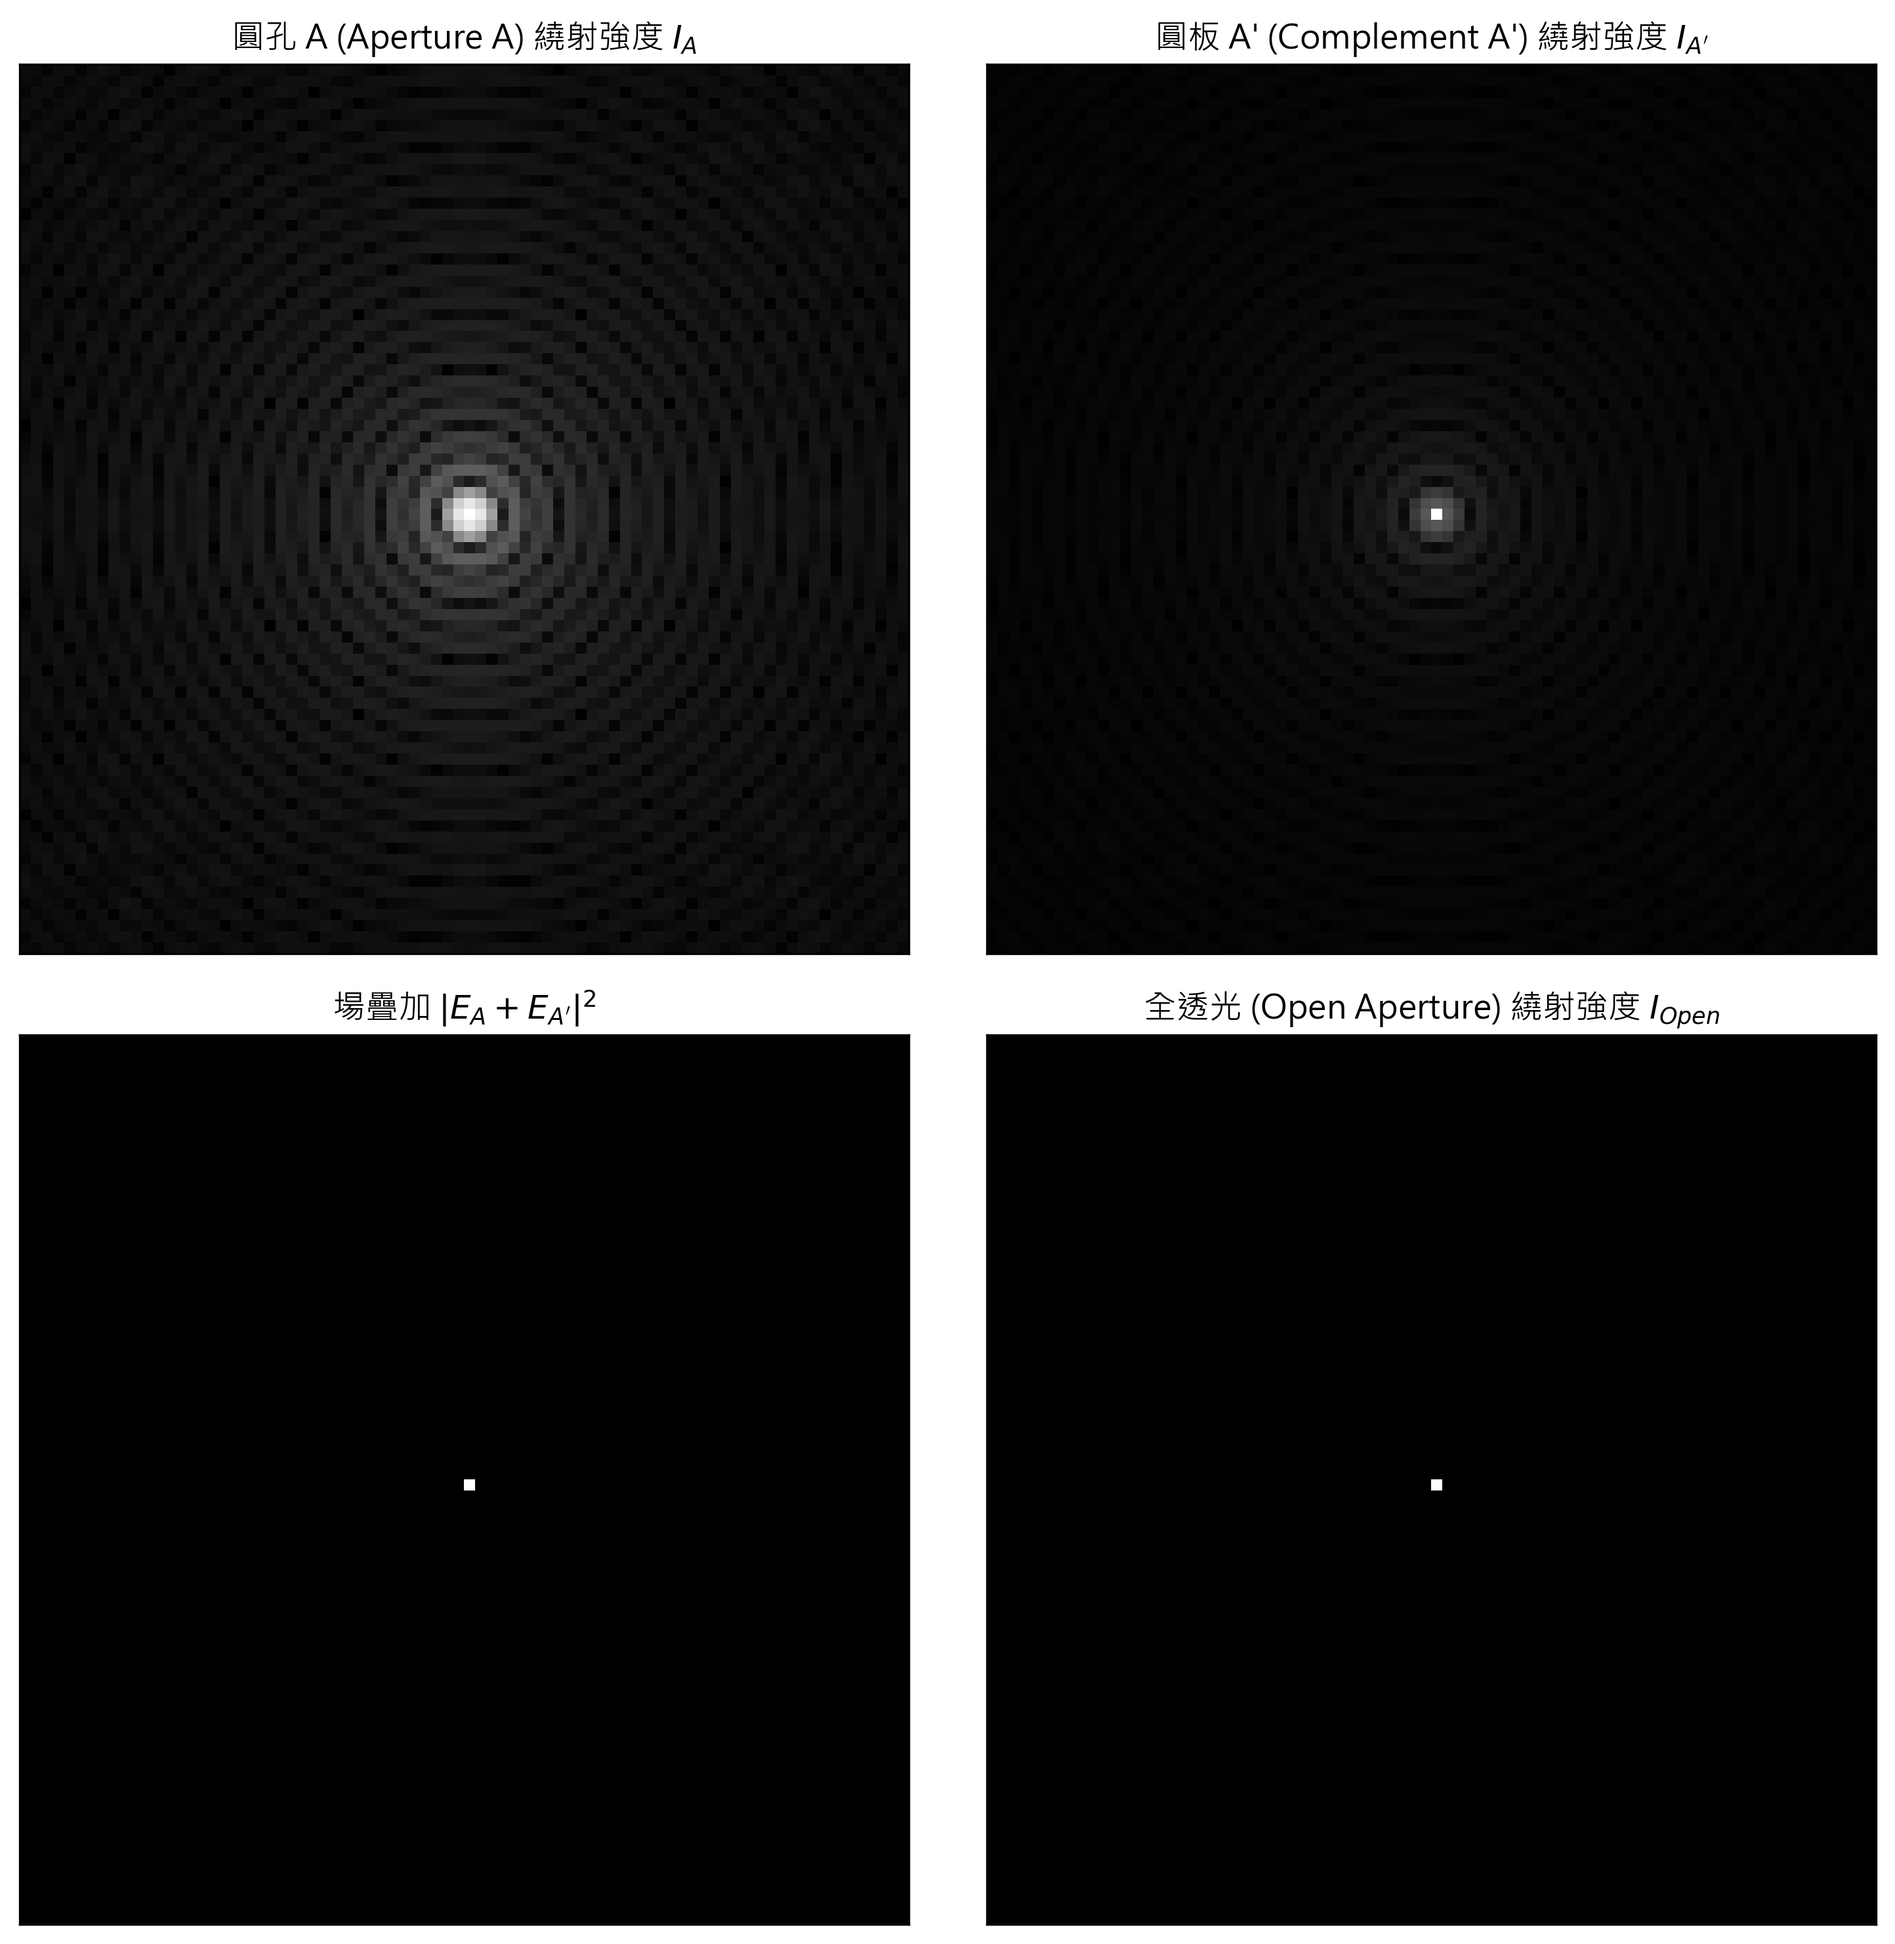
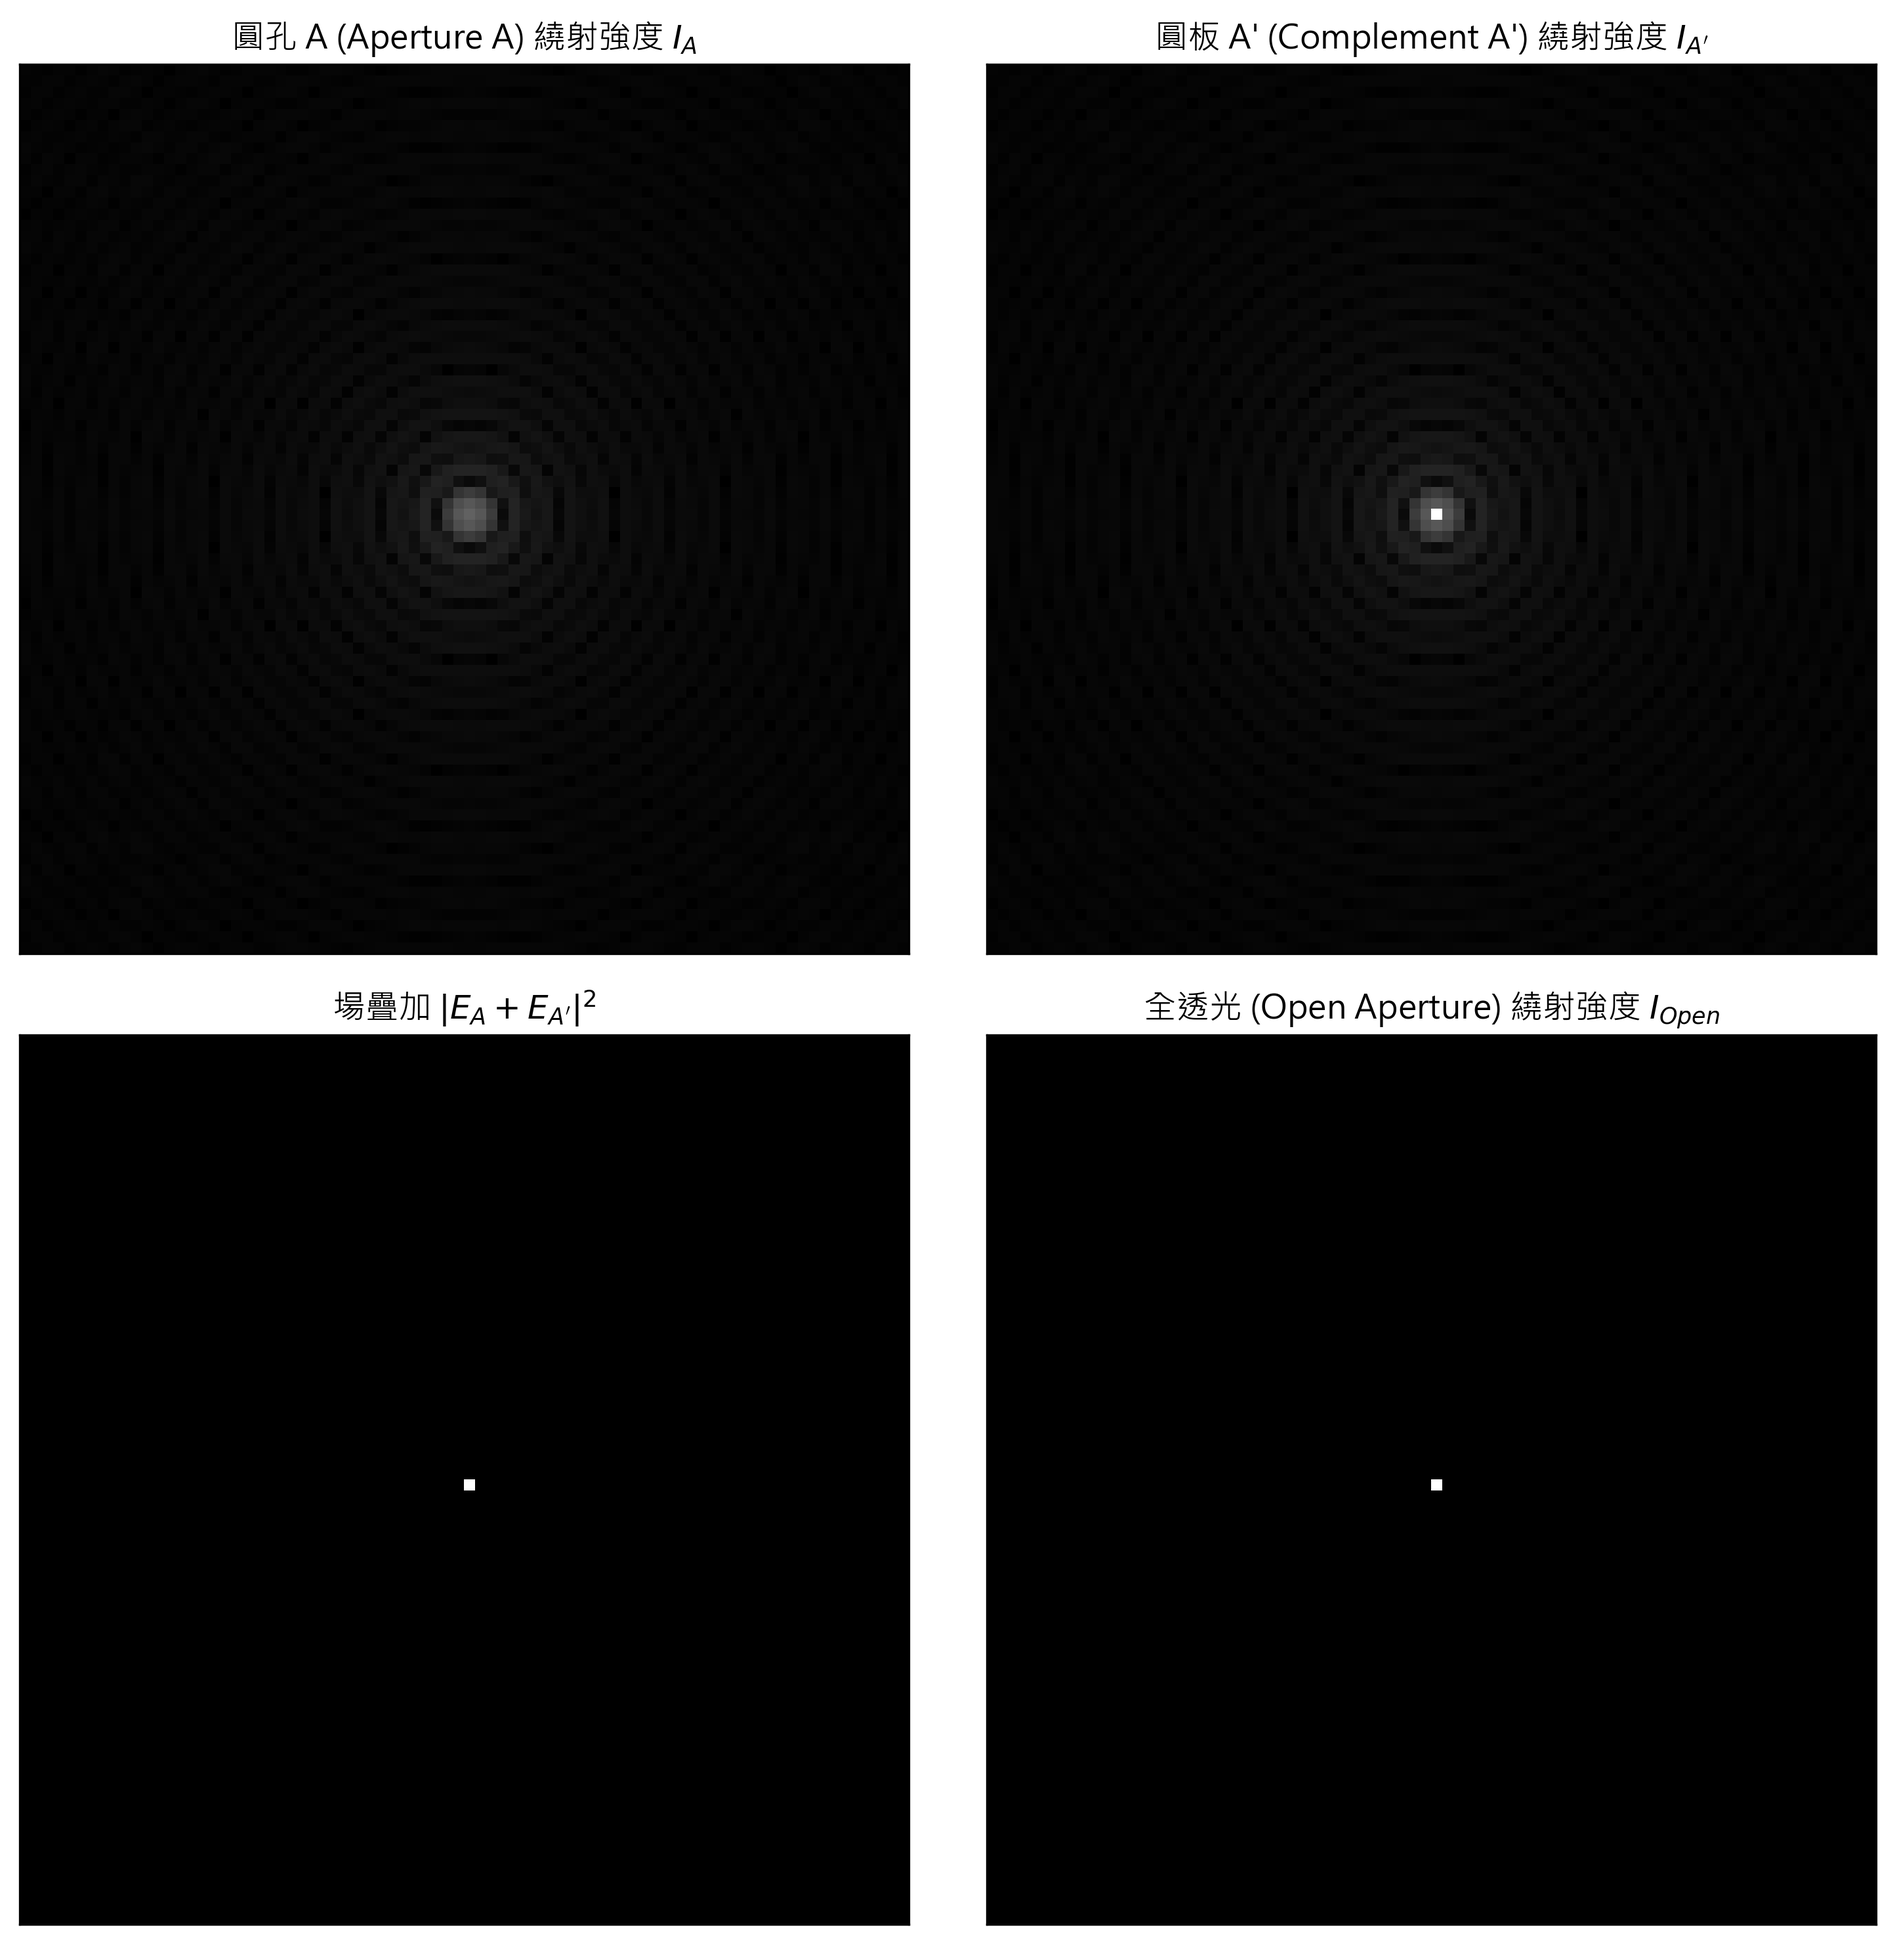
fix Imax normalization err, fix partial transparency err

Changed region(s): [[0.1558, 0.1864, 0.3428, 0.3417]]

diff --git a/3 partial transparency.py b/3 partial transparency.py
@@ -15,7 +15,7 @@ def myfftshift(X):
 
 # ========== parameters ==========
 N = 200          # FFT grid size
-D = 1           # circular aperture diameter (in pixels)
+D = 80           # circular aperture diameter (in pixels)
 CROP = 80        # 中央要看的區域大小 (CROP x CROP)
 
 # ========== build aperture masks ==========
@@ -38,9 +38,9 @@ def fraunhofer(mask):
     E = fft2(mask)
     E = myfftshift(E)
     I = np.abs(E)**2
-    m = np.max(I)
-    if m > 0:
-        I = I / m      # normalize to [0,1]，避免除以 0
+    # m = np.max(I)
+    # if m > 0:
+    #     I = I / m      # normalize to [0,1]，避免除以 0
     return I
 
 # ========== 中央裁切，放大看 pattern ==========
@@ -83,18 +83,21 @@ def plot_intensity(ax, I_cropped, title):
 # ========== 逐個 case 模擬並畫圖 ==========
 for idx, (case_name, T_A, T_Ap) in enumerate(cases):
     # 振幅透過率（因為 I ∝ |E|^2）
-    # tA  = np.sqrt(T_A)
-    # tAp = np.sqrt(T_Ap)
-    tA = T_A
-    tAp = T_Ap
+    tA  = np.sqrt(T_A)
+    tAp = np.sqrt(T_Ap)
+    # tA = T_A
+    # tAp = T_Ap
 
     # 對應到實際的「振幅 mask」
-    maskA      = tA  * A
-    maskA_comp = tAp * A_comp
+    maskA      = tA  * A + (1-tAp) * A_comp
+    maskA_comp = tAp * A_comp + (1-tA) * A
 
     # Fraunhofer patterns
     I_A      = fraunhofer(maskA)
     I_A_comp = fraunhofer(maskA_comp)
+    I_max = max(np.max(I_A), np.max(I_A_comp))
+    I_A /= I_max
+    I_A_comp /= I_max
 
     # 場的疊加 (E_A + E_A')
     E_A      = myfftshift(fft2(maskA))
@@ -133,6 +136,23 @@ for idx, (case_name, T_A, T_Ap) in enumerate(cases):
         print(case_name, "(A' 完全不透光，此時只剩下 A 的 pattern，sum = A)")
     else:
         print(case_name, "simulated with partial transparency.")
+    # ========== Babinet check ==========
+    # 檢查 Babinet's principle: E_A + E_A' = E_open (在非零度角時)
+    # E_open 是全透光光圈的電場（單一亮點）
+
+    # 由於 E_open 只有中心有非零值 (代表光軸上的光線)，
+    # 在繞射圖案的非中心點 (即 E_open ≈ 0) 應滿足 E_A + E_A' ≈ 0
+    # 由於我們已經計算了 E_A + E_A'，且 E_open 也是已知的 (一個中心化後的 delta 函數)
+    # 我們可以直接檢查 E_sum 是否與 E_open 相符。
+
+    # 重新計算 E_open 的歸一化，使其最大值為 1，以計算相對誤差
+    # 注意：E_open 實際上只在中心有值，其他地方為 0。
+    # 繞射場通常在中心有最大值，因此我們用這個最大值來計算相對誤差。
+    # 找出誤差：(|E_A + E_A' - E_open|) / |E_open| 的最大值
+    # 這檢查了電場疊加是否等於全透光光圈的電場
+    E_open = myfftshift(fft2(A_open))
+    err = np.max(np.abs(E_A + E_A_comp - E_open)) / np.max(np.abs(E_open))
+    print("Babinet relative error =", err)
 
 # 調整子圖間距，防止標題重疊
 plt.tight_layout()

diff --git a/2 Complementary mask simulation.py b/2 Complementary mask simulation.py
@@ -38,11 +38,14 @@ def fraunhofer(mask):
     E = fft2(mask)
     E = myfftshift(E)
     I = np.abs(E)**2
-    I /= np.max(I)    # normalize to [0,1]
+    # I /= np.max(I)    # normalize to [0,1]
     return I
 
 I_A      = fraunhofer(A)
 I_A_comp = fraunhofer(A_comp)
+I_max = max(np.max(I_A), np.max(I_A_comp))
+I_A /= I_max
+I_A_comp /= I_max
 I_open   = fraunhofer(A_open)
 
 # field sum: E_A + E_A'
@@ -50,7 +53,7 @@ E_A      = myfftshift(fft2(A))
 E_A_comp = myfftshift(fft2(A_comp))
 E_sum    = E_A + E_A_comp
 I_sum    = np.abs(E_sum)**2
-I_sum   /= np.max(I_sum)
+# I_sum   /= np.max(I_sum)
 
 # ========== 中央裁切，放大看 pattern ==========
 def crop_center(I, M):
